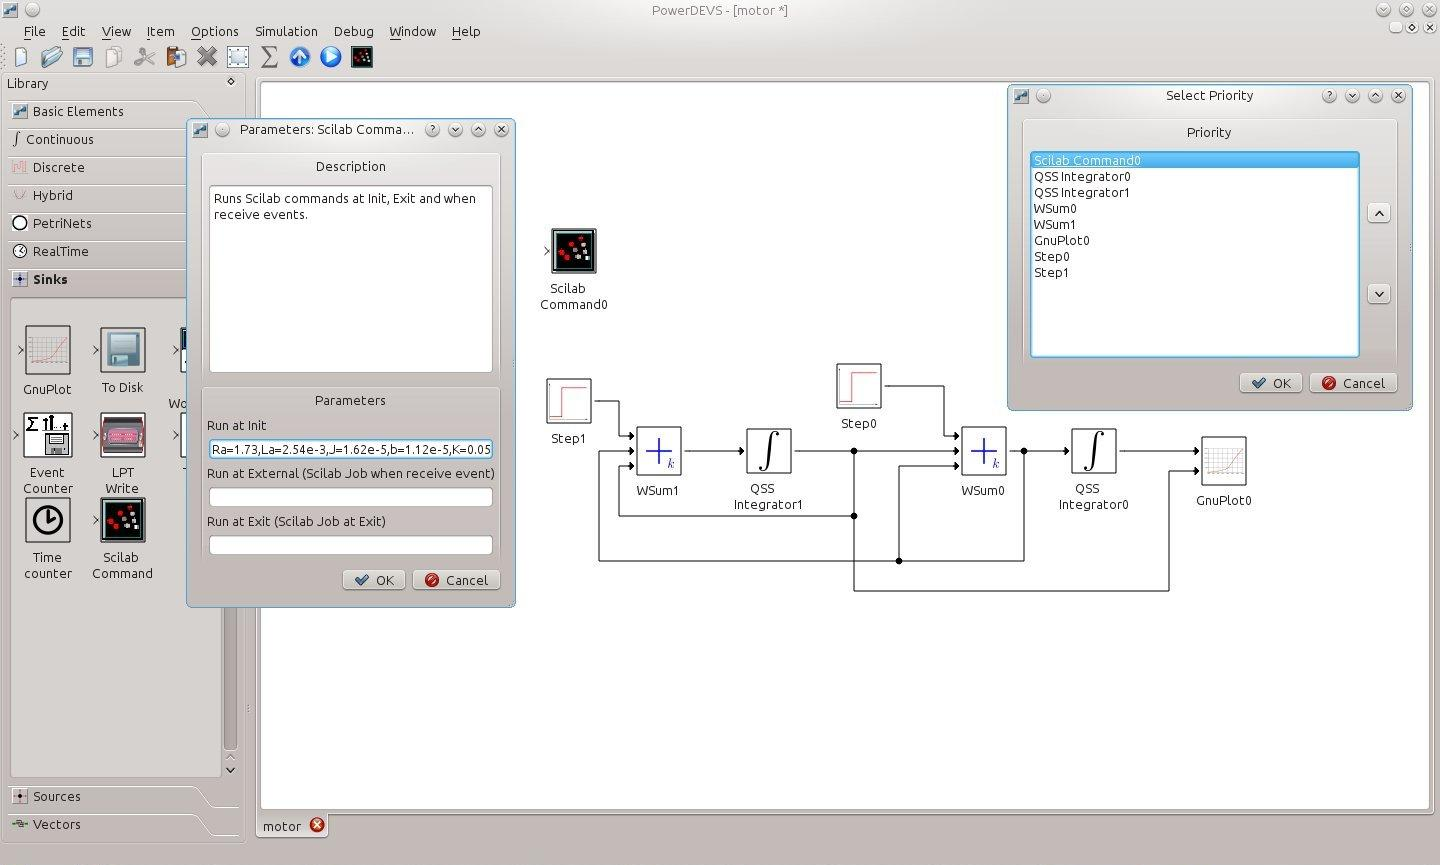
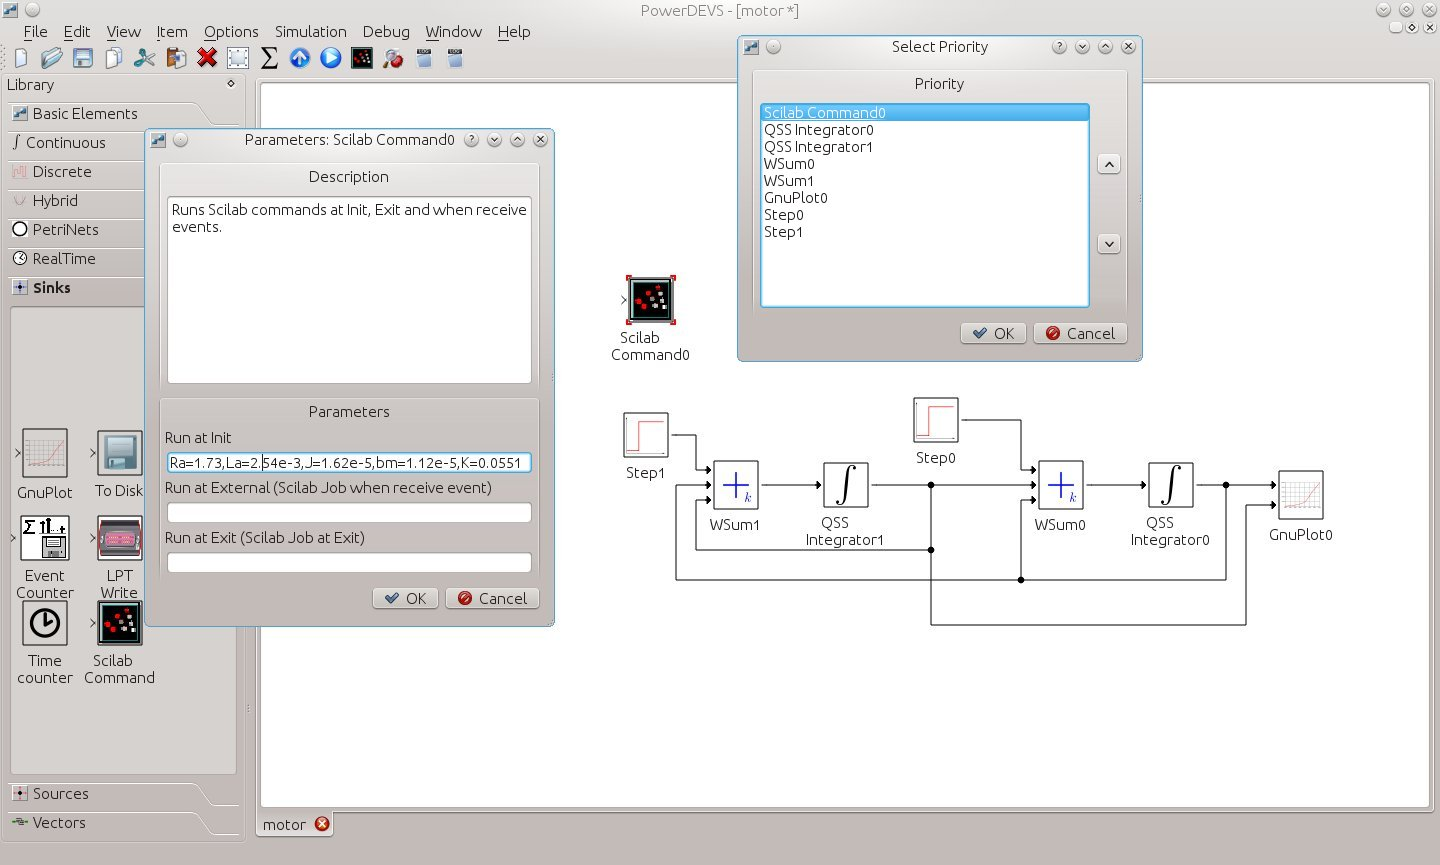
git-svn-id: svn://svn.code.sf.net/p/powerdevs/code/trunk@931 005b60d0-fea2-4bd5-a63e-298cc19d6454

Changed region(s): [[0.0, 0.0, 1.0, 0.874], [0.1875, 0.9364, 1.0, 0.9676], [0.0, 0.9052, 0.0625, 0.9676]]

diff --git a/src/doc/chap_modeling.tex b/src/doc/chap_modeling.tex
@@ -15,7 +15,7 @@ We shall use the following values for the parameters:
 \begin{equation}\label{eq:motor_pars}
 \begin{split}
  R_a&=1.73,\;L_a=2.54\times 10^{-3},\;J=1.62\times 10^{-5},\\
-b&=1.12\times 10^{-5},\;Km=0.0551 
+b&=1.12\times 10^{-5},\;K=0.0551 
 \end{split}
 \end{equation}
 
@@ -60,4 +60,70 @@ Scilab parameters can be also defined in PowerDEVS using the block \verb"Scilab 
 \end{figure}
 
 In order to work properly, the block must be initialized before the other blocks, so when they ask Scilab for their parameters, the corresponding variables were already set. To that goal, PowerDEVS allows to establish priorities among the blocks, so that they are initialized in a desired order. Going to \verb"Edit->Priority" (or clicking on the blue up arrow icon) a new window is open to select the model priorities. Figure~\ref{fig:motor_prior} also shows the priority select window.    
+
+One problem with the model of Figure~\ref{fig:db_motor} is that the block names do not provide information about the variables they calculate. Block names can be changed by double--clicking on the corresponding label.
+
+Additional information can be provided to the model by inserting \emph{annotations}. Annotation labels can be added by selecting the option \verb"Add annotation" after right--clicking on the model or through the \verb"Edit" menu. 
+
+Figure~\ref{fig:db_motor2} shows the DC Motor model with the annotations and the blocks renamed.
+
+\begin{figure}[h]
+ \jpgfile{db_motor2}{14}
+ \caption{PowerDEVS Model of a DC Motor with annotations and renamed blocks}
+ \label{fig:db_motor2}
+\end{figure}
+
+\FloatBarrier
+
+\section{Hierarchical Coupling}
+Let us suppose that we want to implement a speed control for the motor model. For that goal, we propose the following \emph{Proportional--Integral} (PI) control law:
+\begin{equation*}
+ \begin{split}
+  \dot e_I&=\omega_{\text{ref}}(t)-\omega(t)\\
+  U_a(t) &=k_p \pr \omega_{\text{ref}}(t)-\omega(t) + k_I \pr e_I(t)
+ \end{split}
+\end{equation*}
+where $ \omega_{\text{ref}}(t)$ is the reference speed trajectory. 
+
+This controller can be easily built using \verb"Quantized Integrator" and \verb"WSum" blocks, obtaining the model shown in Figure~\ref{fig:db_pi_motor}. There, the reference speed $\omega_{\text{ref}}(t)$is a ramp signal, generated by the \verb"Ramp" block of the \verb"Source" library.
+
+\begin{figure}[h]
+ \jpgfile{db_pi_motor}{14}
+ \caption{DC Motor with a Proportional Integral controller}
+ \label{fig:db_pi_motor}
+\end{figure}
+
+This block diagram has a problem. It contain too many blocks and so it cannot be easily analyzed and understood. 
+
+In cases like this, the model organization can be improved by grouping the blocks of each sub--system to form \emph{coupled} blocks that, at the higher hierarchical level, are seen as single blocks.
+
+PowerDEVS allows to group blocks inside \verb"Coupled" blocks at the \verb"Basic Elements" library.
+
+In this case, we shall group the whole DC motor model as a single coupled model. For that goal, we first drag a \verb"Coupled" block to the model, and then, we shall select the blocks corresponding to the motor as shown in Fig.\ref{fig:select_model}.
+
+\begin{figure}[h]
+ \jpgfile{select_model}{14}
+ \caption{Creating a Coupled Model}
+ \label{fig:select_model}
+\end{figure}
+ 
+Then, we shall cut the selected blocks with \verb"Ctrl+x" or by clicking on the corresponding option at the \verb"Edit" menu.
+
+After that, we open the \verb"Coupled" block by right clicking on it or from the \verb"Edit" menu and then we paste the blocks that were cut from the whole model.
+
+We also drag into this subsystem two \verb"Inport" (input ports) and two \verb"Outport" (output ports) blocks from the \verb"Basic Elements" library to connect the corresponding variables. After renaming the blocks accordingly, the subsystem looks like the one shown in Fig.\ref{fig:motor_subsys}.
+
+\begin{figure}[h]
+ \jpgfile{motor_subsys}{14}
+ \caption{DC Motor Subsystem}
+ \label{fig:motor_subsys}
+\end{figure}
+
+Once the subsystem is complete, it can be used at the higher hierarchical layer as a single block. Figure~\ref{fig:db_pi_motor_coup} shows the resulting model, where the coupled block was renamed as \verb"DC Motor".
+
+\begin{figure}[h]
+ \jpgfile{db_pi_motor_coup}{14}
+ \caption{Controlled DC Motor using hierarchical coupling}
+ \label{fig:db_pi_motor_coup}
+\end{figure}
 

diff --git a/src/doc/chap_intro.tex b/src/doc/chap_intro.tex
@@ -81,7 +81,7 @@ PowerDEVS represents and simulates its models based on the \emph{Classic DEVS Fo
 
 Thus, in theory, any discrete time or discrete event model can be represented by DEVS and so by PowerDEVS.
 
-In the libraries of PowerDEVS we have included blocks to model arbitrary discrete time systems and also to model \emph{Timed Petri Nets}. However, blocks for different discrete formalisms can be eventually included.
+In the libraries of PowerDEVS we have included blocks to model arbitrary discrete time systems and also to model \emph{Timed Petri Nets}. Yet, blocks for different discrete formalisms can be eventually included.
 
 However, the main feature of PowerDEVS is that it has a complete library to simulate continuous and hybrid systems using \emph{Quantized State System} (QSS) methods.
 

diff --git a/src/doc/PD_UserGuide.tex b/src/doc/PD_UserGuide.tex
@@ -3,10 +3,9 @@
 \usepackage{hyperref,url}
 \usepackage [latin1] {inputenc}
 \usepackage{index}
-\usepackage{graphicx}
+\usepackage{graphicx,placeins}
 \usepackage[scanall]{psfrag}
 \usepackage{amsmath,amssymb}
-
 \input{commands}
 
 \renewcommand\floatpagefraction{.99}
